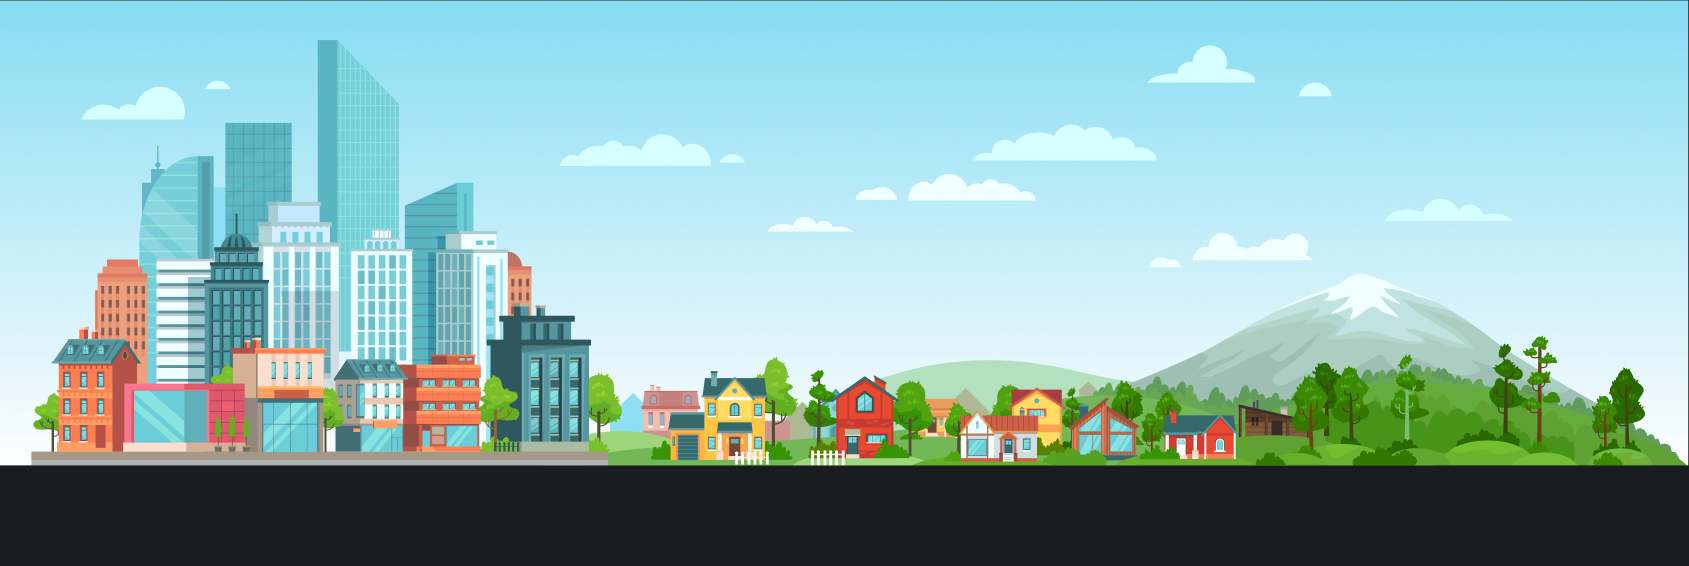
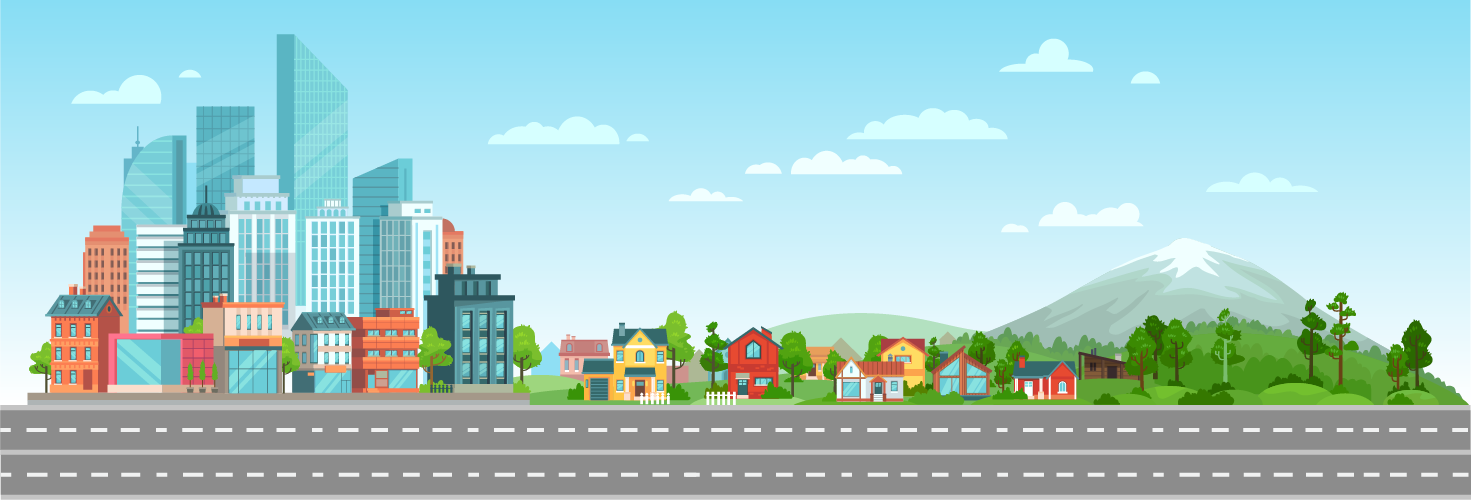
added bgs to ground

diff --git a/src/components/Game/Game.jsx b/src/components/Game/Game.jsx
@@ -14,10 +14,10 @@ import RoadBlock3Item from "./../../assets/obstacles/road-block-3.png";
 import RoadBlock4Item from "./../../assets/obstacles/road-block-4.png";
 import JumpIcon from "./../../assets/icons/Jump.png";
 import Obstacle from "./Obstacle.jsx";
-import City from "./../../assets/bg/cityy.png";
-import West from "./../../assets/bg/westt.png";
-import Warzone from "./../../assets/bg/warzonee.png";
-import Future from "./../../assets/bg/futuree.png";
+import City from "./../../assets/bg/city.png";
+import West from "./../../assets/bg/west.png";
+import Warzone from "./../../assets/bg/warzone.png";
+import Future from "./../../assets/bg/future.png";
 
 const Game = ({
   setPage,
@@ -106,7 +106,7 @@ const Game = ({
   const handleLoose = () => {
     setVehicleLoose(vetVehicleFrame);
     setLost(true);
-    // setTimeout(() => setPage(3), 1000);
+    setTimeout(() => setPage(3), 1000);
     newScore = 0;
   };
 

diff --git a/src/styles/index.css b/src/styles/index.css
@@ -124,7 +124,7 @@ h3 span {
 /* jump button */
 .jump-button {
   position: absolute;
-  bottom: 20vh;
+  bottom: 10vh;
   left: 5vw;
   z-index: 5;
   background: var(--accent);

diff --git a/src/components/Game/Ground.jsx b/src/components/Game/Ground.jsx
@@ -1,5 +1,4 @@
 import { useEffect, useState } from "react";
-import GroundItem from "./../../assets/bg/west.png";
 
 const SPEED = 0.05;
 let newLeft = [0, 300];
